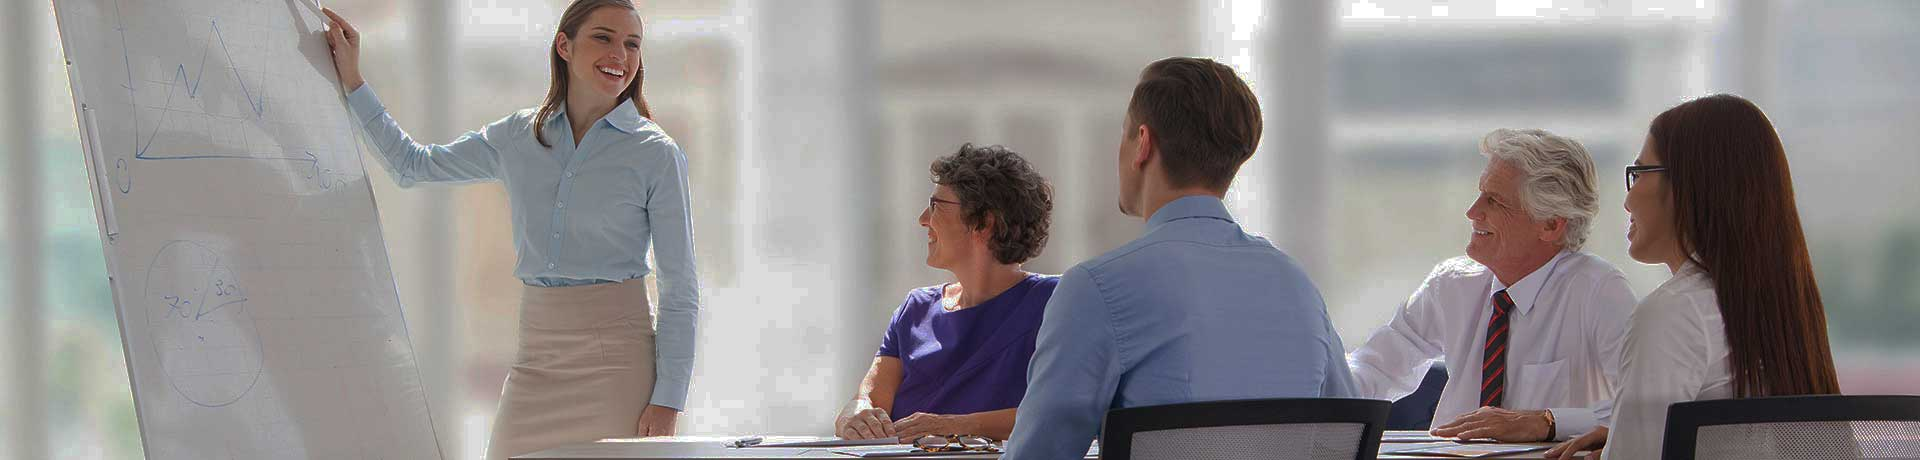
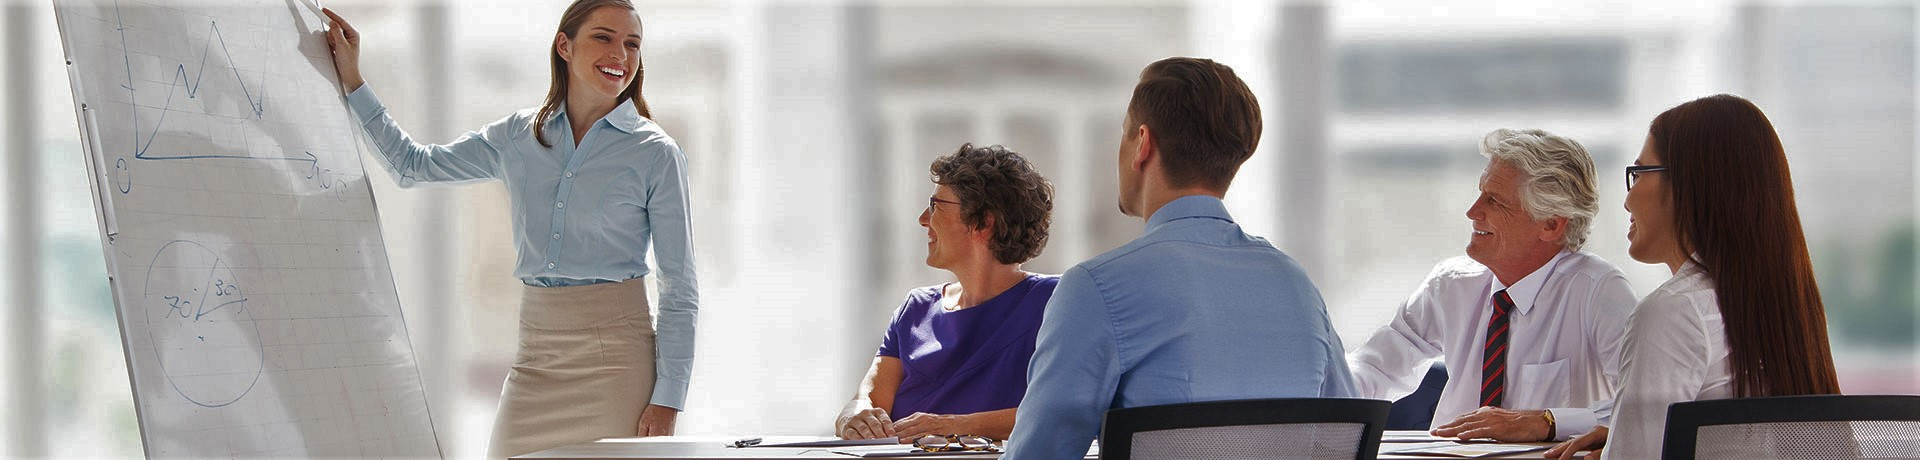
image commit

diff --git a/about.html b/about.html
@@ -178,7 +178,7 @@ License URL: https://creativecommons.org/licenses/by/4.0/
                     <h4>Ser una entidad que entregue a nuestros clientes productos y servicios adaptados a sus necesidades. Estamos comprometidos a brindar productos y servicios enfocados a la higiene y limpieza, donde cada día mejoramos a favor de los requisitos y retroalimentación de nuestros consumidores.</h4>
                   </div>
                 </div>
-                <img src="img/project/pro-7.jpg" class="img-fluid" alt="...">
+                <img src="img/project/pro-5.jpg" class="img-fluid" alt="...">
               </div>
             </div>
             <div class="col-md-12">
